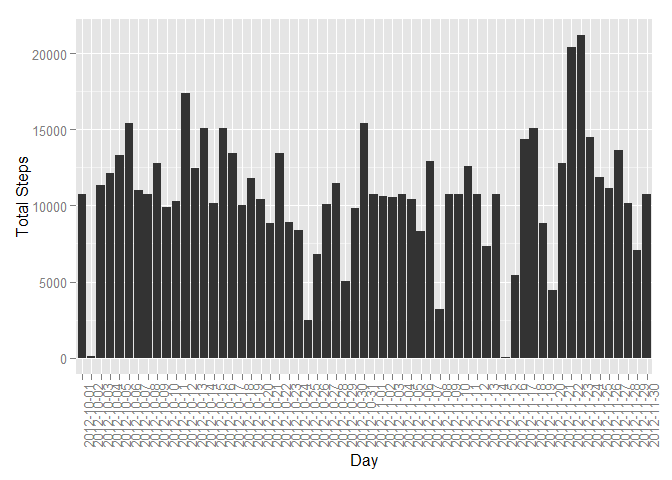
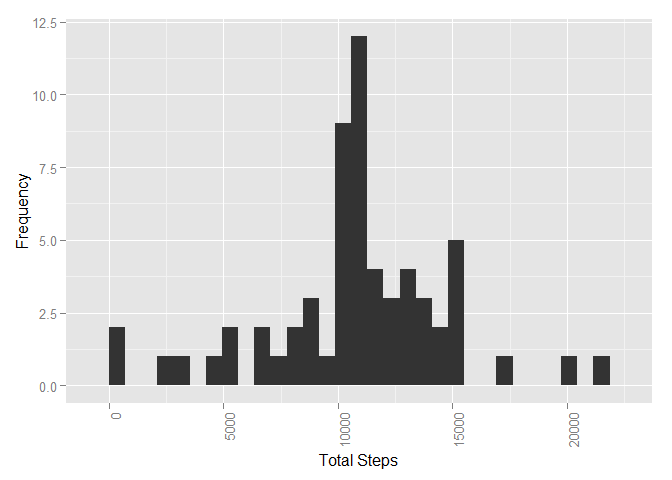
Fixing histogram

diff --git a/PA1_template.html b/PA1_template.html
@@ -96,10 +96,10 @@ library(dplyr)</code></pre>
 <p><strong>using dlpyr here to omit NA and summarize the total</strong></p>
 <pre class="r"><code>totalStepsPerDay &lt;- activityTrackingData %&gt;% na.omit() %&gt;% group_by(date) %&gt;% summarize(TotalSteps = sum(steps))</code></pre></li>
 <li><p>If you do not understand the difference between a histogram and a barplot, research the difference between them. Make a histogram of the total number of steps taken each day</p>
-<p><strong>Histogram of the total steps by days, note several days are missing due to being entire NAs and thus filtered out by our previous line</strong></p>
-<pre class="r"><code>totalStepHistorgram &lt;- ggplot(data = totalStepsPerDay, aes(totalStepsPerDay$date, totalStepsPerDay$TotalSteps)) + geom_histogram(stat = &quot;identity&quot;) + theme(axis.text.x = element_text(angle = 90, hjust = 1)) + labs(x = &quot;Day&quot;, y = &quot;Total Steps&quot;)
+<pre class="r"><code>totalStepHistorgram &lt;- ggplot(data = totalStepsPerDay, aes(totalStepsPerDay$TotalSteps)) + geom_histogram() + theme(axis.text.x = element_text(angle = 90, hjust = 1)) + labs(x = &quot;Total Steps&quot;, y = &quot;Frequency&quot;)
 print(totalStepHistorgram)</code></pre>
[1 lines of base64/hex data omitted]
+<pre><code>## stat_bin: binwidth defaulted to range/30. Use 'binwidth = x' to adjust this.</code></pre>
[1 lines of base64/hex data omitted]
 <li><p>Calculate and report the mean and median of the total number of steps taken per day</p>
 <p><strong>Mean and median reported below</strong></p>
 <pre class="r"><code>mean(totalStepsPerDay$TotalSteps)</code></pre>
@@ -149,14 +149,15 @@ for (i in 1:nrow(replacedNAactivityTrackingData)){
         }
 }</code></pre></li>
 <li><p>Make a histogram of the total number of steps taken each day and Calculate and report the mean and median total number of steps taken per day. Do these values differ from the estimates from the first part of the assignment? What is the impact of imputing missing data on the estimates of the total daily number of steps?</p>
-<p><strong>The 8 days which were complete NAs in the original data are now included in the histogram, with the dailiy mean, adding some new bars to the histogram. Because missing data was entire days and I filled the missing data with the mean of each time segment across all days, all 8 previously missing days have the exact same value, the mean of the previous data.</strong></p>
-<p><strong>The mean value is the same as the original data due to the way I generated data (using the previous means). The median however has shifted, and is now equivalent to the mean due to adding several new days which have that value.</strong></p>
-<p><strong>Adding estimates based on means of the previous data didn’t change the overall data means at all, so several summaries will be roughly the same, just with additional days added into the distributions. However care should be taken here as even adding more days with the group means could change the interpretation of the data.</strong></p>
+<p><strong>The 8 days which were complete NAs in the original data are now included in the histogram, all at the daily mean.</strong></p>
+<p><strong>The mean value is the same as the original data due to the way I generated data (using the previous means). The median however has shifted slightly, and is now equivalent to the mean due to adding several new days which have that value.</strong></p>
+<p><strong>Adding estimates based on means of the previous data created a new spike at the mean, which makes the distirbutin look more centered.</strong></p>
 <pre class="r"><code>totalStepsPerDayNAreplaced &lt;- replacedNAactivityTrackingData %&gt;% group_by(date) %&gt;% summarize(TotalSteps = sum(steps))
 
-totalStepHistorgramNAreplaced &lt;- ggplot(data = totalStepsPerDayNAreplaced, aes(totalStepsPerDayNAreplaced$date, totalStepsPerDayNAreplaced$TotalSteps)) + geom_histogram(stat = &quot;identity&quot;) + theme(axis.text.x = element_text(angle = 90, hjust = 1)) + labs(x = &quot;Day&quot;, y = &quot;Total Steps&quot;)
+totalStepHistorgramNAreplaced &lt;- ggplot(data = totalStepsPerDayNAreplaced, aes(totalStepsPerDayNAreplaced$TotalSteps)) + geom_histogram() + theme(axis.text.x = element_text(angle = 90, hjust = 1)) + labs(x = &quot;Total Steps&quot;, y = &quot;Frequency&quot;)
 print(totalStepHistorgramNAreplaced)</code></pre>
[1 lines of base64/hex data omitted]
+<pre><code>## stat_bin: binwidth defaulted to range/30. Use 'binwidth = x' to adjust this.</code></pre>
[1 lines of base64/hex data omitted]
 <pre class="r"><code>mean(totalStepsPerDayNAreplaced$TotalSteps)</code></pre>
 <pre><code>## [1] 10766.19</code></pre>
 <pre class="r"><code>median(totalStepsPerDayNAreplaced$TotalSteps)</code></pre>

diff --git a/PA1_template.md b/PA1_template.md
@@ -53,11 +53,14 @@ For this part of the assignment, you can ignore the missing values in the datase
 
 2. If you do not understand the difference between a histogram and a barplot, research the difference between them. Make a histogram of the total number of steps taken each day
 
-    **Histogram of the total steps by days, note several days are missing due to being entire NAs and thus filtered out by our previous line**
     
     ```r
-    totalStepHistorgram <- ggplot(data = totalStepsPerDay, aes(totalStepsPerDay$date, totalStepsPerDay$TotalSteps)) + geom_histogram(stat = "identity") + theme(axis.text.x = element_text(angle = 90, hjust = 1)) + labs(x = "Day", y = "Total Steps")
+    totalStepHistorgram <- ggplot(data = totalStepsPerDay, aes(totalStepsPerDay$TotalSteps)) + geom_histogram() + theme(axis.text.x = element_text(angle = 90, hjust = 1)) + labs(x = "Total Steps", y = "Frequency")
     print(totalStepHistorgram)
+    ```
+    
+    ```
+    ## stat_bin: binwidth defaulted to range/30. Use 'binwidth = x' to adjust this.
     ```
     
     ![](PA1_template_files/figure-html/unnamed-chunk-4-1.png) 
@@ -165,19 +168,23 @@ Note that there are a number of days/intervals where there are missing values (c
 
 4. Make a histogram of the total number of steps taken each day and Calculate and report the mean and median total number of steps taken per day. Do these values differ from the estimates from the first part of the assignment? What is the impact of imputing missing data on the estimates of the total daily number of steps?
 
-    **The 8 days which were complete NAs in the original data are now included in the histogram, with the dailiy mean, adding some new bars to the histogram.  Because missing data was entire days and I filled the missing data with the mean of each time segment across all days, all 8 previously missing days have the exact same value, the mean of the previous data.**
+    **The 8 days which were complete NAs in the original data are now included in the histogram, all at the daily mean.**
     
-    **The mean value is the same as the original data due to the way I generated data (using the previous means).  The median however has shifted, and is now equivalent to the mean due to adding several new days which have that value.**
+    **The mean value is the same as the original data due to the way I generated data (using the previous means).  The median however has shifted slightly, and is now equivalent to the mean due to adding several new days which have that value.**
     
-    **Adding estimates based on means of the previous data didn't change the overall data means at all, so several summaries will be roughly the same, just with additional days added into the distributions.  However care should be taken here as even adding more days with the group means could change the interpretation of the data.**
+    **Adding estimates based on means of the previous data created a new spike at the mean, which makes the distirbutin look more centered.**
     
     
     
     ```r
     totalStepsPerDayNAreplaced <- replacedNAactivityTrackingData %>% group_by(date) %>% summarize(TotalSteps = sum(steps))
     
-    totalStepHistorgramNAreplaced <- ggplot(data = totalStepsPerDayNAreplaced, aes(totalStepsPerDayNAreplaced$date, totalStepsPerDayNAreplaced$TotalSteps)) + geom_histogram(stat = "identity") + theme(axis.text.x = element_text(angle = 90, hjust = 1)) + labs(x = "Day", y = "Total Steps")
+    totalStepHistorgramNAreplaced <- ggplot(data = totalStepsPerDayNAreplaced, aes(totalStepsPerDayNAreplaced$TotalSteps)) + geom_histogram() + theme(axis.text.x = element_text(angle = 90, hjust = 1)) + labs(x = "Total Steps", y = "Frequency")
     print(totalStepHistorgramNAreplaced)
+    ```
+    
+    ```
+    ## stat_bin: binwidth defaulted to range/30. Use 'binwidth = x' to adjust this.
     ```
     
     ![](PA1_template_files/figure-html/unnamed-chunk-10-1.png) 
